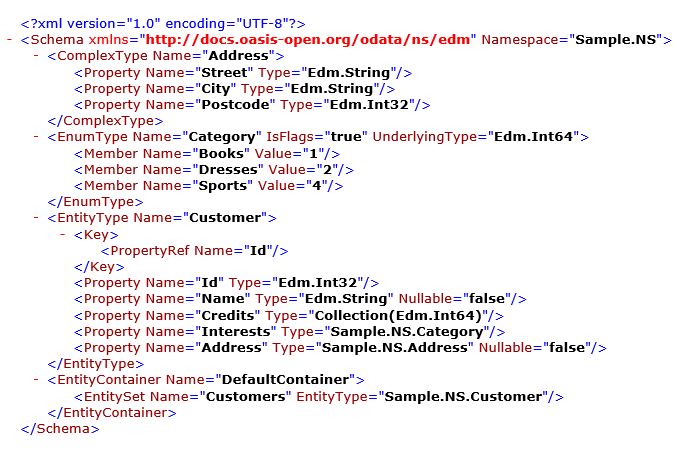
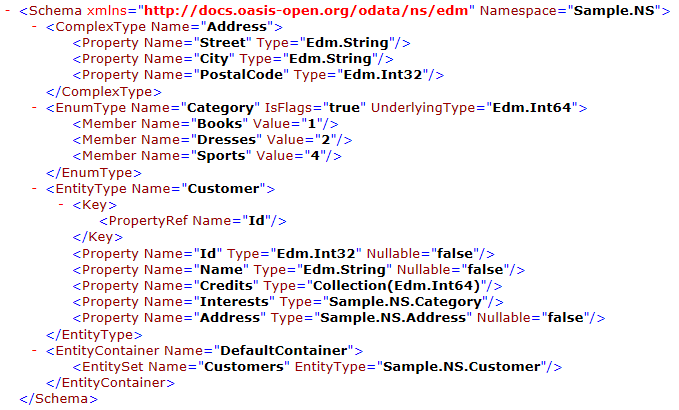
Fix bug: entity type key is nullable (Sect. 2.1) #667

Changed region(s): [[0.0309, 0.0, 0.9897, 0.9951]]

diff --git a/_posts/core libraries/2015-04-01-02-01-build-basic-model.md b/_posts/core libraries/2015-04-01-02-01-build-basic-model.md
@@ -140,7 +140,7 @@ namespace EdmLibSample
         public SampleModelBuilder BuildCustomerType()
         {
             _customerType = new EdmEntityType("Sample.NS", "Customer");
-            _customerType.AddKeys(_customerType.AddStructuralProperty("Id", EdmPrimitiveTypeKind.Int32));
+            _customerType.AddKeys(_customerType.AddStructuralProperty("Id", EdmPrimitiveTypeKind.Int32, isNullable: false));
             _customerType.AddStructuralProperty("Name", EdmPrimitiveTypeKind.String, isNullable: false);
             _customerType.AddStructuralProperty("Credits",
                 new EdmCollectionTypeReference(new EdmCollectionType(EdmCoreModel.Instance.GetInt64(isNullable: true))));
@@ -157,7 +157,7 @@ namespace EdmLibSample
 This code:
 
  - Defines an entity type `Customer` within the namespace `Sample.NS`;
- - Adds a property `Id` as the key of the entity type;
+ - Adds a **non-nullable** property `Id` as the key of the entity type;
  - Adds a **non-nullable** property `Name`;
  - Adds a property `Credits` of the type `Collection(Edm.Int64)`;
  - Adds a **nullable** property `Interests` of the type `Sample.NS.Category`;
